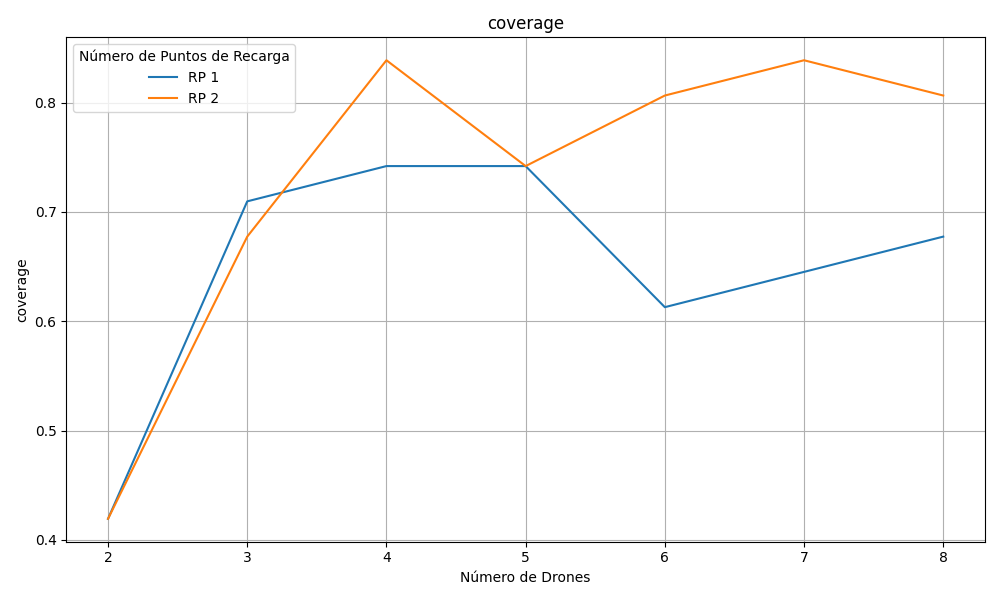
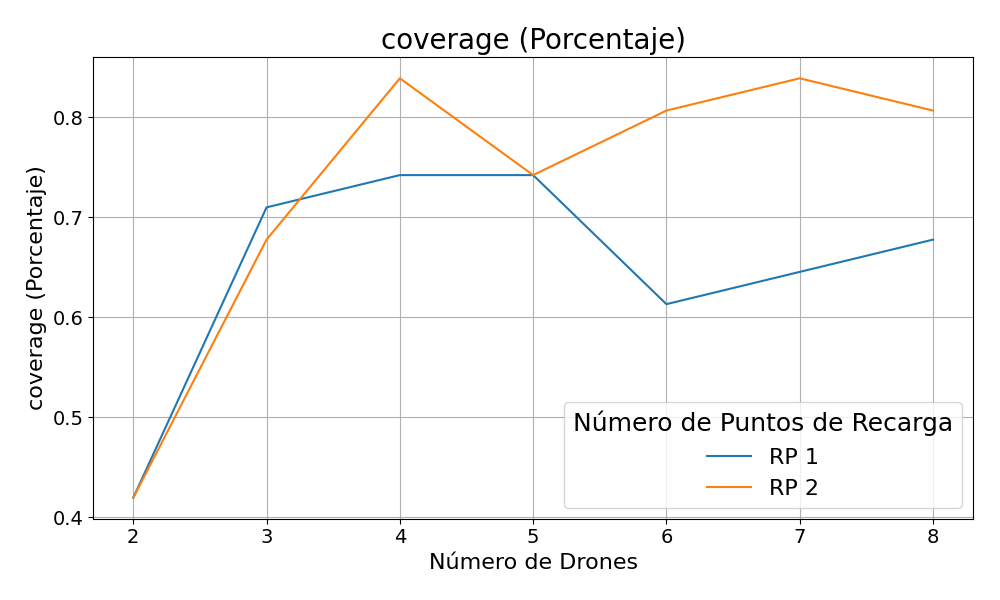
Fuente gráficas ampliada

diff --git a/minizinc/results.py b/minizinc/results.py
@@ -35,7 +35,27 @@ def calculate_manhattan_distance(x1, y1, x2, y2):
     return abs(x1 - x2) + abs(y1 - y2)
 
 def plot_metrics(drones_results, title, filename):
+    # Configurar el tamaño de las fuentes
+    plt.rcParams.update({
+        'font.size': 18,          # Tamaño de la fuente general
+        'axes.titlesize': 20,     # Tamaño del título del gráfico
+        'axes.labelsize': 16,     # Tamaño de las etiquetas de los ejes
+        'xtick.labelsize': 14,    # Tamaño de las etiquetas del eje x
+        'ytick.labelsize': 14,    # Tamaño de las etiquetas del eje y
+        'legend.fontsize': 16,    # Tamaño de la fuente de la leyenda
+        'figure.titlesize': 18    # Tamaño del título de la figura
+    })
+    units = {
+        'userLatency': 'Ms',
+        'userPathLoss': 'dB',
+        'userBandWidth': 'MBps',
+        'coverage': 'Porcentaje',
+        'averageDistanceToRP': 'Cells'
+    }
+
+    title = f"{title} ({units.get(title, '')})"
     fig, ax = plt.subplots(figsize=(10, 6))
+    ax.xaxis.set_major_locator(plt.MaxNLocator(integer=True))
     for rp, metrics in drones_results.items():
         ax.plot(metrics['x'], metrics['y'], label=f'RP {rp}')
     
@@ -47,6 +67,7 @@ def plot_metrics(drones_results, title, filename):
     plt.tight_layout()
     os.makedirs("results/plots", exist_ok=True)
     plt.savefig(f"results/plots/{filename}")
+    print(f"results saved in results/plots/{filename}")
     plt.close()
     plt.show()
 
